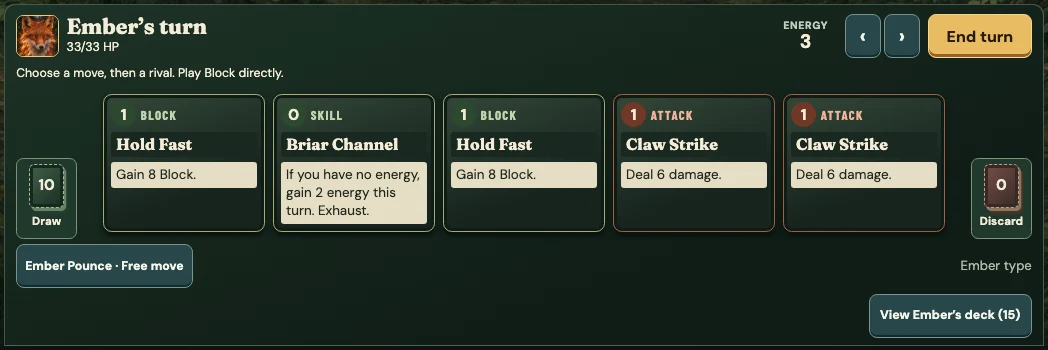
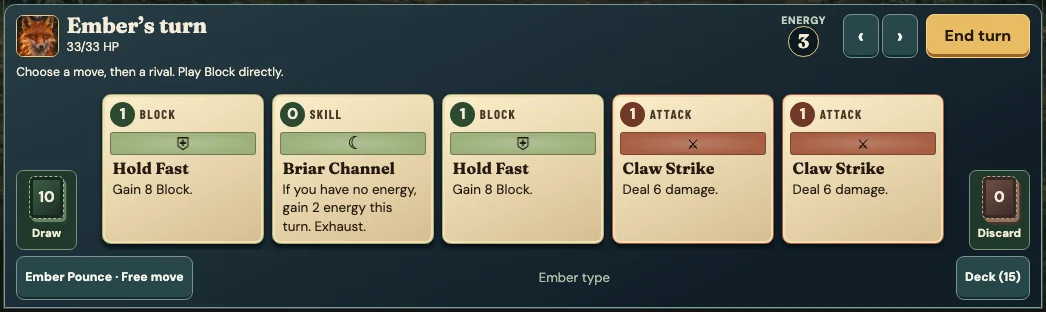
Stage combat in the moonlit clearing

diff --git a/styles.css b/styles.css
@@ -849,22 +849,16 @@ body:not([data-battle-area])::before {
   padding: .4rem .3rem;
 }
 .combat-screen .battlefield {
-  width: min(100%, 59rem);
-  margin: auto;
-  padding: .65rem;
-  border-color: #72977d68;
-  background: #10201893;
+  width: min(100%, 52rem);
+  margin: 0 auto auto;
+  padding: .35rem;
+  gap: .4rem;
+  border: 0;
+  background: transparent;
 }
 .combat-screen .rival-heading { min-height: 2rem; align-items: center; }
 .combat-screen .rival-heading .button { padding: .2rem .5rem; }
-.combat-screen .rival-card {
-  border-color: #a18a62;
-  background: linear-gradient(130deg, #29231bec, #171e17f2);
-  box-shadow: 0 .35rem 1.2rem #080c08a0;
-}
 .combat-screen :is(.is-drag-aiming, .is-choosing-target) .rival-card:not(:disabled) { border-color: var(--lime); }
-.combat-screen .rival-card .unit-art { width: 42%; min-height: clamp(7rem, 26dvh, 14rem); }
-.combat-screen .rival-card .unit-name { font-size: clamp(1.15rem, 2.4vw, 1.85rem); }
 .combat-metric-label {
   color: #c3cfbf;
   font-size: .73em;
@@ -884,9 +878,14 @@ body:not([data-battle-area])::before {
 .rival-intent {
   display: grid;
   gap: .15rem;
-  padding: .35rem 0 .2rem;
-  border-top: 1px solid #b9a38050;
-  line-height: 1.25;
+  min-width: 0;
+  min-height: 2.75rem;
+  padding: .3rem .45rem;
+  border: 1px solid #a78d69;
+  border-radius: .35rem;
+  background: #17252b;
+  text-align: start;
+  line-height: 1.2;
 }
 .rival-intent strong { color: #c3cfbf; font-size: .73em; letter-spacing: .06em; text-transform: uppercase; }
 .rival-intent[data-intent='guard'], .rival-intent[data-intent='shadowWard'] { color: #b8dce5; }
@@ -1017,8 +1016,6 @@ body:not([data-battle-area])::before {
 .combat-screen .combat-hand .card-effect { align-self: stretch; padding: .25rem .3rem; border-radius: .2rem; background: #e6dec5; color: #20281c; font-size: .84rem; }
 .combat-screen .combat-actions { justify-content: space-between; gap: .35rem; margin: 0; }
 .combat-screen .combat-actions .button { padding: .25rem .5rem; font-size: .77rem; }
-.combat-screen .combat-deck-actions { gap: .35rem; margin: 0; }
-.combat-screen .combat-deck-actions .button { padding: .25rem .65rem; font-size: .78rem; }
 .combat-screen .hand-counts:last-child { margin-left: auto; }
 .hand-pagination { display: flex; gap: .2rem; }
 .hand-pagination .button { min-inline-size: 2.25rem; padding: .08rem .45rem; font-size: 1.25rem; line-height: 1.2; }
@@ -1035,13 +1032,9 @@ body:not([data-battle-area])::before {
   .current-route .route-option { padding: .5rem; }
   .combat-screen .fight-heading { padding-block: .3rem; }
   .combat-screen .fight-heading .button { padding: .25rem .45rem; font-size: .76rem; }
-  .combat-screen .battlefield { padding: .35rem; gap: .3rem; }
   .combat-screen .rival-heading { gap: .3rem; }
   .combat-screen .rival-heading h2 { font-size: .95rem; }
   .combat-screen .rival-heading p { font-size: .72rem; }
-  .combat-screen .rival-card .unit-art { width: 100%; height: clamp(2.5rem, 10dvh, 5.2rem); min-height: 0; }
-  .combat-screen .rival-card .unit-info { gap: .18rem; padding: .3rem; }
-  .combat-screen .rival-card .unit-info > :not(.unit-name, .health-bar, .rival-aim-label) { font-size: .75rem; }
   .combat-screen .hand-panel { padding-inline: .4rem; }
   .combat-screen .hand-heading { gap: .3rem; }
   .combat-screen .hand-heading [data-do='end'] { padding: .26rem .4rem; font-size: .76rem; }
@@ -1063,9 +1056,6 @@ body:not([data-battle-area])::before {
   .game-stage[data-scene='combat'] { overflow: auto; }
   .combat-screen { height: auto; min-height: 100%; grid-template-rows: auto minmax(8rem, 1fr) auto; }
   .combat-screen .arena-scroll { overflow: visible; }
-  .combat-screen .battlefield { padding: .35rem; gap: .35rem; }
-  .combat-screen .rival-card .unit-art { width: clamp(2.6rem, 12vw, 4.6rem); min-width: 0; min-height: 0; height: auto; }
-  .combat-screen .rival-card .unit-info { gap: .2rem; padding: .4rem; }
   .combat-screen .rival-heading { min-height: 1.5rem; }
   .combat-screen .rival-heading h2 { font-size: 1.05rem; }
   .combat-screen .combat-actions .hand-counts, .combat-screen .combat-actions:not(:has(.button)) { display: none; }
@@ -1076,8 +1066,6 @@ body:not([data-battle-area])::before {
 
 @media (max-width: 38rem) and (max-height: 480px) {
   .site-header { padding-block: .2rem; }
-  .combat-screen .rival-card { flex-direction: row; }
-  .combat-screen .rival-card .unit-art { width: 2.25rem; min-width: 0; height: auto; }
   .combat-screen .rival-heading { min-height: 1.25rem; }
 }
 
@@ -1137,9 +1125,6 @@ body:not([data-battle-area])::before {
 .solo-goals summary { color: var(--lime); cursor: pointer; }
 .solo-goals ul { display: grid; gap: .4rem; margin: .6rem 0 0; padding-left: 1.15rem; }
 
-.rival-entry { display: grid; grid-template-rows: 1fr auto; min-width: 0; }
-.rival-entry > .rival-card { width: 100%; }
-.rival-effects { margin-top: .27rem; }
 .unit-effects > button {
   min-height: 2rem;
   padding: .22rem .45rem;
@@ -1171,8 +1156,6 @@ body:not([data-battle-area])::before {
 .combat-terms dd { margin: 0; }
 
 @media (max-width: 38rem) {
-  .combat-screen .rival-card .unit-art { height: clamp(2.5rem, 7dvh, 3.8rem); }
-  .combat-screen .battlefield { margin-block: 0 auto; }
   .unit-effects > button { min-height: 2.75rem; }
 }
 
@@ -1208,4 +1191,175 @@ body:not([data-battle-area])::before {
   .solo-reward .level-choice { min-height: 4.2rem; padding: .55rem; font-size: .84rem; gap: .25rem; }
   .solo-reward .hand-grid { grid-template-columns: repeat(2, minmax(0, 1fr)); gap: .45rem; }
   .solo-reward .play-card { min-height: 5.2rem; }
+}
+
+/* Moonlit Clearing. The base battle fits the compact rival list. */
+.game-stage[data-scene='combat'] {
+  background: linear-gradient(180deg, #09161bc7, #12202623 36%, #0c191ee0),
+    var(--battle-art, url('assets/hollow-battle.webp')) center 48% / cover no-repeat;
+  border: 1px solid #69817a7d;
+  border-radius: .65rem .65rem 0 0;
+}
+.combat-screen .fight-heading { padding-inline: .65rem; background: #152229ee; border-bottom: 1px solid #687d7585; }
+.clearing-party { display: none; }
+.clearing-rivals { grid-template-columns: minmax(0, 1fr); gap: .35rem; }
+.rival-entry {
+  display: grid;
+  grid-template-columns: minmax(0, 1fr) minmax(5.25rem, 31%);
+  gap: .28rem;
+  min-width: 0;
+  align-items: center;
+  border: 1px solid #ae9574;
+  border-radius: .45rem;
+  padding: .25rem;
+  background: #162327f2;
+}
+.rival-entry .rival-card { flex-direction: row; min-height: 2.75rem; border: 1px solid transparent; border-radius: .28rem; background: transparent; box-shadow: none; }
+.rival-entry .rival-card:disabled { grid-column: 1 / -1; }
+.rival-entry .rival-card .unit-art {
+  width: clamp(2.65rem, 11vw, 3.75rem);
+  min-width: 0;
+  min-height: 0;
+  border: 1px solid #a88e6d;
+  border-radius: .3rem;
+}
+.rival-entry .rival-card .unit-info { padding: .15rem .35rem; gap: .16rem; }
+.rival-entry .rival-card .unit-name { font-size: clamp(.96rem, 2.6vw, 1.15rem); }
+.rival-entry .combat-label { font-size: .72rem; }
+.rival-entry .health-label, .rival-entry .type-matchup { font-size: .75rem; }
+.rival-entry .rival-intent { align-content: center; background: #252326; font-size: .8rem; }
+.rival-intent:hover { border-color: var(--gold); }
+.rival-effects { grid-column: 1 / -1; padding-inline-start: .25rem; }
+
+.combat-screen .hand-panel {
+  background: linear-gradient(155deg, #283d45, #111e28 78%);
+  border-color: #819895;
+}
+.combat-screen .turn-energy strong {
+  display: grid;
+  place-items: center;
+  width: 1.9rem;
+  aspect-ratio: 1;
+  border: 1px solid var(--gold);
+  border-radius: 50%;
+  background: #0d1920;
+  font-family: var(--display);
+}
+.combat-screen .combat-hand .play-card {
+  background: linear-gradient(155deg, #fbefcc, #d6be91);
+  color: #241a12;
+  box-shadow: inset 0 0 0 2px #f3dfb1, 0 .2rem .35rem #071016;
+}
+.combat-screen .combat-hand .play-card:focus-visible { outline-color: #275b79; }
+.combat-screen .combat-hand .card-type { color: #493628; }
+.combat-screen .combat-hand .card-title,
+.combat-screen .combat-hand .card-effect { background: transparent; color: inherit; padding: 0 .15rem; }
+.card-emblem {
+  grid-column: 1 / -1;
+  display: grid;
+  place-items: center;
+  min-height: 1.45rem;
+  border: 1px solid #32291c66;
+  border-radius: .2rem;
+  background: radial-gradient(ellipse at center, #fff3, transparent 74%), var(--card-accent, #9cb17b);
+  color: #201912;
+  font: 700 1.1rem/1 var(--display);
+}
+@media (max-width: 38rem) {
+  .combat-screen .hand-heading [data-do='end'], .combat-screen .combat-actions .button { min-height: 2.75rem; }
+  .combat-screen .hand-pagination .button { min-height: 2.75rem; }
+  .combat-screen .combat-actions .hand-counts { display: none; }
+}
+
+@media (min-width: 47rem) and (min-height: 34rem) {
+  .combat-screen:not(.has-crowded-rivals) .battlefield {
+    width: min(100%, 68rem);
+    grid-template-columns: minmax(0, 2fr) minmax(0, 3fr);
+    gap: clamp(.4rem, 2dvh, 1.25rem) clamp(1rem, 6vw, 5rem);
+    align-items: start;
+    margin: auto;
+    padding: .5rem 1rem;
+  }
+  .combat-screen:not(.has-crowded-rivals) .battlefield > :is(.rival-heading, .recruit-banner) { grid-column: 1 / -1; }
+  .combat-screen:not(.has-crowded-rivals) .rival-heading { min-height: 0; }
+  .combat-screen:not(.has-crowded-rivals) .rival-heading:has(#aim-status:empty) {
+    position: absolute;
+    width: 1px;
+    height: 1px;
+    overflow: hidden;
+    clip-path: inset(50%);
+  }
+  .combat-screen:not(.has-crowded-rivals) .rival-heading h2 { color: var(--paper); text-shadow: 0 2px 4px #081016; }
+  .combat-screen:not(.has-crowded-rivals) .clearing-party {
+    display: flex;
+    justify-content: center;
+    align-items: flex-start;
+    align-self: center;
+    gap: clamp(.35rem, 1.5vw, 1rem);
+  }
+  .clearing-familiar { display: grid; gap: .3rem; flex: 0 1 12rem; min-width: 0; }
+  .clearing-familiar.is-defeated { opacity: .55; filter: saturate(.35); }
+  .clearing-familiar.is-active .clearing-nameplate { border-color: var(--gold); }
+  .clearing-portrait {
+    display: block;
+    width: min(100%, clamp(5rem, 17dvh, 12rem));
+    aspect-ratio: 1;
+    justify-self: center;
+    overflow: hidden;
+    border: 2px solid #b0c3ae;
+    border-radius: 50% 50% 10% 10% / 43% 43% 10% 10%;
+    background: #293e39;
+    box-shadow: 0 .5rem 1.3rem #040d14b0;
+  }
+  .clearing-portrait img { width: 100%; height: 100%; object-fit: cover; object-position: center 33%; }
+  .clearing-nameplate {
+    display: grid;
+    gap: .3rem;
+    border: 1px solid #a7b8aa;
+    border-radius: .3rem;
+    padding: .35rem .55rem;
+    background: #14232ae8;
+    text-align: center;
+  }
+  .combat-screen:not(.has-crowded-rivals) .clearing-rivals { grid-template-columns: repeat(auto-fit, minmax(min(100%, 10rem), 1fr)); gap: clamp(.4rem, 2vw, 1.35rem); }
+  .combat-screen:not(.has-crowded-rivals) .rival-entry {
+    display: flex;
+    flex-direction: column;
+    align-items: stretch;
+    max-width: 15rem;
+    width: 100%;
+    justify-self: center;
+    gap: .3rem;
+    padding: 0;
+    border: 0;
+    background: transparent;
+  }
+  .combat-screen:not(.has-crowded-rivals) .rival-entry .rival-card {
+    flex-direction: column;
+    align-items: center;
+    gap: .25rem;
+    overflow: visible;
+    text-align: center;
+  }
+  .combat-screen:not(.has-crowded-rivals) .rival-entry .unit-art {
+    width: min(100%, clamp(5rem, 17dvh, 12.25rem));
+    aspect-ratio: 1.12;
+    border: 2px solid #b7c6b4;
+    border-radius: 50% 50% 10% 10% / 44% 44% 10% 10%;
+    box-shadow: 0 .5rem 1.3rem #040d14b0;
+  }
+  .combat-screen:not(.has-crowded-rivals) .rival-entry .unit-info {
+    width: 100%;
+    border: 1px solid #91a69e;
+    border-radius: .35rem;
+    background: #14232aef;
+    padding: .32rem .55rem;
+  }
+  .combat-screen:not(.has-crowded-rivals) .rival-entry .unit-name { font-size: clamp(1.05rem, 2vw, 1.45rem); }
+  .combat-screen:not(.has-crowded-rivals) .rival-intent { order: -1; align-self: center; text-align: center; }
+  .combat-screen:not(.has-crowded-rivals) .rival-effects { justify-content: center; padding: 0; }
+}
+
+@media (pointer: coarse) {
+  .combat-hand [data-aim]:not(:disabled) { touch-action: pan-x; }
 }

diff --git a/index.html b/index.html
@@ -108,7 +108,7 @@
           <div class="tutorial-lesson">
             <figure class="tutorial-visual">
               <button class="tutorial-enlarge" type="button" data-enlarge-picture aria-haspopup="dialog" aria-controls="tutorial-picture">
-                <img src="assets/tutorial/play-turn.webp" width="1048" height="350" alt="The battle HUD shows energy and End turn above the hand, with Draw and Discard on either side." loading="lazy">
+                <img src="assets/tutorial/play-turn.webp" width="1046" height="312" alt="The battle HUD shows energy and End turn above the hand, with Draw and Discard on either side." loading="lazy">
                 <span>Enlarge picture</span>
               </button>
               <figcaption>Hold Fast is a Block card. Tap it to gain 8 Block.</figcaption>
@@ -126,14 +126,14 @@
           <div class="tutorial-lesson">
             <figure class="tutorial-visual">
               <button class="tutorial-enlarge" type="button" data-enlarge-picture aria-haspopup="dialog" aria-controls="tutorial-picture">
-                <img src="assets/tutorial/types-effects.webp" width="464" height="235" alt="Ironhide is a Stone rival with 19 HP. Its next move hits you for 10, and it resists your attacks." loading="lazy">
+                <img src="assets/tutorial/types-effects.webp" width="249" height="337" alt="Ironhide is a Stone rival with 19 HP. Its next move hits you for 10, and it resists your attacks." loading="lazy">
                 <span>Enlarge picture</span>
               </button>
-              <figcaption>Read the rival’s next move and type matchup under its HP.</figcaption>
+              <figcaption>Check each rival’s next move beside its portrait and HP.</figcaption>
             </figure>
             <div class="tutorial-copy">
               <p><strong>Ember beats Grove · Grove beats Tide · Tide beats Stone · Stone beats Ember.</strong> A strong matchup deals 50% more damage. The reverse matchup deals 25% less.</p>
-              <p>Hover, focus, or tap an effect such as <strong>Frail</strong> for its definition. For the full list, open <strong>Battle info → Combat terms</strong>.</p>
+              <p>Hover, focus, or tap a next move or effect such as <strong>Frail</strong> for details. For the full list, open <strong>Battle info → Combat terms</strong>.</p>
             </div>
           </div>
         </section>
